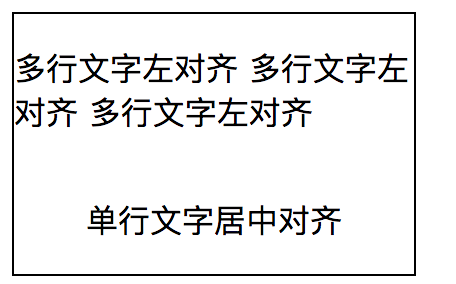
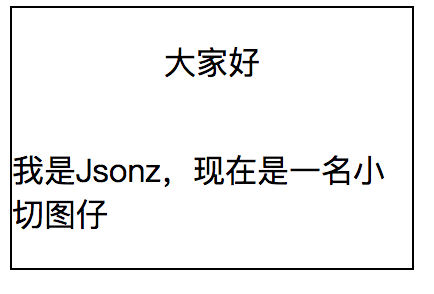
feat( Promise )

Changed region(s): [[0.0, 0.0, 0.9585, 0.9859]]

diff --git a/2018/05/css-world/index.html b/2018/05/css-world/index.html
@@ -88,13 +88,13 @@
 
 
 
-<meta name="description" content="前段时间面了荔枝，反馈说对一些css概念性的东西掌握不是很好~ 所以最近有空看了张鑫旭大佬的《CSS世界》全本通熟易懂，继承了博客的画风，入口即化 这里只是列了一些比较实用的点，主观性特别强~ 很多东西三言两语讲不清楚，大家可以入手张鑫旭大佬的书来看看，里面关于一些基础的尺寸控制，流和line-height 等等很多东西都捋一遍。 改变 width/height 作用细节的 box-sizing">
+<meta name="description" content="《css世界》 前段时间面了荔枝，反馈说对一些css概念性的东西掌握不是很好~ 所以最近有空看了张鑫旭大佬的《CSS世界》全本通熟易懂，继承了博客的画风，入口即化 这里只是列了一些比较实用的点，主观性特别强~ 很多东西三言两语讲不清楚，大家可以入手张鑫旭大佬的书来看看，里面关于一些基础的尺寸控制，流和line-height 等等很多东西都捋一遍。 改变 width/height 作用细节的 box">
 <meta name="keywords" content="github,learn,CSS,Book">
 <meta property="og:type" content="article">
 <meta property="og:title" content="css世界笔记">
 <meta property="og:url" content="https://jsonz1993.github.io/2018/05/css-world/index.html">
 <meta property="og:site_name" content="Jsonz">
-<meta property="og:description" content="前段时间面了荔枝，反馈说对一些css概念性的东西掌握不是很好~ 所以最近有空看了张鑫旭大佬的《CSS世界》全本通熟易懂，继承了博客的画风，入口即化 这里只是列了一些比较实用的点，主观性特别强~ 很多东西三言两语讲不清楚，大家可以入手张鑫旭大佬的书来看看，里面关于一些基础的尺寸控制，流和line-height 等等很多东西都捋一遍。 改变 width/height 作用细节的 box-sizing">
+<meta property="og:description" content="《css世界》 前段时间面了荔枝，反馈说对一些css概念性的东西掌握不是很好~ 所以最近有空看了张鑫旭大佬的《CSS世界》全本通熟易懂，继承了博客的画风，入口即化 这里只是列了一些比较实用的点，主观性特别强~ 很多东西三言两语讲不清楚，大家可以入手张鑫旭大佬的书来看看，里面关于一些基础的尺寸控制，流和line-height 等等很多东西都捋一遍。 改变 width/height 作用细节的 box">
 <meta property="og:image" content="https://jsonz1993.github.io/2018/05/css-world/box-sizing.png">
 <meta property="og:image" content="https://jsonz1993.github.io/2018/05/css-world/padding1.png">
 <meta property="og:image" content="https://jsonz1993.github.io/2018/05/css-world/padding2.png">
@@ -109,10 +109,10 @@
 <meta property="og:image" content="https://jsonz1993.github.io/2018/05/css-world/first-letter.png">
 <meta property="og:image" content="https://jsonz1993.github.io/2018/05/css-world/loading.gif">
 <meta property="og:image" content="https://jsonz1993.github.io/2018/05/css-world/yo.png">
-<meta property="og:updated_time" content="2018-05-19T10:20:47.577Z">
+<meta property="og:updated_time" content="2018-05-19T10:36:52.292Z">
 <meta name="twitter:card" content="summary">
 <meta name="twitter:title" content="css世界笔记">
-<meta name="twitter:description" content="前段时间面了荔枝，反馈说对一些css概念性的东西掌握不是很好~ 所以最近有空看了张鑫旭大佬的《CSS世界》全本通熟易懂，继承了博客的画风，入口即化 这里只是列了一些比较实用的点，主观性特别强~ 很多东西三言两语讲不清楚，大家可以入手张鑫旭大佬的书来看看，里面关于一些基础的尺寸控制，流和line-height 等等很多东西都捋一遍。 改变 width/height 作用细节的 box-sizing">
+<meta name="twitter:description" content="《css世界》 前段时间面了荔枝，反馈说对一些css概念性的东西掌握不是很好~ 所以最近有空看了张鑫旭大佬的《CSS世界》全本通熟易懂，继承了博客的画风，入口即化 这里只是列了一些比较实用的点，主观性特别强~ 很多东西三言两语讲不清楚，大家可以入手张鑫旭大佬的书来看看，里面关于一些基础的尺寸控制，流和line-height 等等很多东西都捋一遍。 改变 width/height 作用细节的 box">
 <meta name="twitter:image" content="https://jsonz1993.github.io/2018/05/css-world/box-sizing.png">
 
 
@@ -414,7 +414,8 @@
       
 
       
-        <p>前段时间面了荔枝，反馈说对一些css概念性的东西掌握不是很好~ 所以最近有空看了张鑫旭大佬的《CSS世界》<br>全本通熟易懂，继承了博客的画风，入口即化</p>
+        <p><a href="http://www.cssworld.cn/" target="_blank" rel="external">《css世界》</a></p>
+<p>前段时间面了荔枝，反馈说对一些css概念性的东西掌握不是很好~ 所以最近有空看了张鑫旭大佬的《CSS世界》<br>全本通熟易懂，继承了博客的画风，入口即化</p>
 <p>这里只是列了一些比较实用的点，主观性特别强~ 很多东西三言两语讲不清楚，大家可以入手张鑫旭大佬的书来看看，里面关于一些基础的尺寸控制，流和line-height 等等很多东西都捋一遍。</p>
 <h2 id="改变-width-height-作用细节的-box-sizing"><a href="#改变-width-height-作用细节的-box-sizing" class="headerlink" title="改变 width/height 作用细节的 box-sizing"></a>改变 width/height 作用细节的 box-sizing</h2><blockquote>
 <p>box-sizing的作用是什么？ 一句话，改变了 width 作用的盒子。默认情况下，width 是作用在 content box 上的，box-sizing 的作用就是可以把 width 作用的盒子变成其他几个。</p>
@@ -442,7 +443,7 @@
 <h2 id="利用-margin-auto-做垂直上下居中"><a href="#利用-margin-auto-做垂直上下居中" class="headerlink" title="利用 margin: auto 做垂直上下居中"></a>利用 margin: auto 做垂直上下居中</h2><figure class="highlight css"><table><tr><td class="gutter"><pre><div class="line">1</div><div class="line">2</div><div class="line">3</div><div class="line">4</div><div class="line">5</div><div class="line">6</div><div class="line">7</div><div class="line">8</div><div class="line">9</div><div class="line">10</div><div class="line">11</div><div class="line">12</div><div class="line">13</div><div class="line">14</div><div class="line">15</div><div class="line">16</div><div class="line">17</div></pre></td><td class="code"><pre><div class="line"><span class="selector-class">.box1</span> &#123;</div><div class="line">  <span class="attribute">height</span>: <span class="number">400px</span>;</div><div class="line">  <span class="attribute">width</span>: <span class="number">400px</span>;</div><div class="line">  <span class="attribute">border</span>: <span class="number">1px</span> solid ;</div><div class="line">  <span class="attribute">position</span>: relative;</div><div class="line">&#125;</div><div class="line"><span class="selector-class">.box2</span> &#123;</div><div class="line">  <span class="attribute">position</span>: absolute;</div><div class="line">  <span class="attribute">left</span>: <span class="number">0</span>;</div><div class="line">  <span class="attribute">right</span>: <span class="number">0</span>;</div><div class="line">  <span class="attribute">top</span>: <span class="number">0</span>;</div><div class="line">  <span class="attribute">bottom</span>: <span class="number">0</span>;</div><div class="line">  <span class="attribute">background-color</span>: currentColor;</div><div class="line">  <span class="attribute">width</span>: <span class="number">200px</span>;</div><div class="line">  <span class="attribute">height</span>: <span class="number">200px</span>;</div><div class="line">  <span class="attribute">margin</span>: auto;</div><div class="line">&#125;</div></pre></td></tr></table></figure>
 <figure class="highlight html"><table><tr><td class="gutter"><pre><div class="line">1</div></pre></td><td class="code"><pre><div class="line"><span class="tag">&lt;<span class="name">div</span> <span class="attr">class</span>=<span class="string">"box1"</span>&gt;</span><span class="tag">&lt;<span class="name">div</span> <span class="attr">class</span>=<span class="string">"box2"</span>&gt;</span><span class="tag">&lt;/<span class="name">div</span>&gt;</span><span class="tag">&lt;/<span class="name">div</span>&gt;</span></div></pre></td></tr></table></figure>
 <h2 id="border-默认颜色为元素color值"><a href="#border-默认颜色为元素color值" class="headerlink" title="border 默认颜色为元素color值"></a>border 默认颜色为元素color值</h2><h2 id="border绘制三角形"><a href="#border绘制三角形" class="headerlink" title="border绘制三角形"></a>border绘制三角形</h2><p>项目上画三角形绝大部分都是用border，好控制，实现简单，成本低只需一个元素。<br><figure class="highlight css"><table><tr><td class="gutter"><pre><div class="line">1</div><div class="line">2</div><div class="line">3</div><div class="line">4</div><div class="line">5</div><div class="line">6</div></pre></td><td class="code"><pre><div class="line"><span class="selector-class">.box1</span> &#123;</div><div class="line">  <span class="attribute">border</span>: <span class="number">10px</span>;</div><div class="line">  <span class="attribute">border-style</span>: solid;</div><div class="line">  <span class="attribute">border-color</span>: currentColor transparent transparent;</div><div class="line">  <span class="attribute">width</span>: <span class="number">0</span>;</div><div class="line">&#125;</div></pre></td></tr></table></figure></p>
-<h2 id="css尺寸单位ex，指的是字母x的高度。"><a href="#css尺寸单位ex，指的是字母x的高度。" class="headerlink" title="css尺寸单位ex，指的是字母x的高度。"></a>css尺寸单位<code>ex</code>，指的是字母x的高度。</h2><p>这里简单说一下，css里面的基线(baseline)其实就是字母x的下边缘线<br>关于ex的应用这里不写呆毛了，我们可以利用他来实现文字与图片居中，直接给张鑫旭大佬的网址<a href="http://demo.cssworld.cn/5/1-##php" target="_blank" rel="external">传送门</a><br><em>再感慨一下，虽然这些东西多多少少都在张鑫旭博客看到，但是这本书真的对一些东西的讲解很通俗易懂。大家可以入手有空翻一翻</em></p>
+<h2 id="css尺寸单位ex，指的是字母x的高度。"><a href="#css尺寸单位ex，指的是字母x的高度。" class="headerlink" title="css尺寸单位ex，指的是字母x的高度。"></a>css尺寸单位<code>ex</code>，指的是字母x的高度。</h2><p>这里简单说一下，css里面的基线(baseline)其实就是字母x的下边缘线<br>关于ex的应用这里不写呆毛了，我们可以利用他来实现文字与图片居中，直接给张鑫旭大佬的<a href="http://demo.cssworld.cn/5/1-1.php" target="_blank" rel="external">demo</a><br><em>再感慨一下，虽然这些东西多多少少都在张鑫旭博客看到，但是这本书真的对一些东西的讲解很通俗易懂。大家可以入手有空翻一翻</em></p>
 <h2 id="BFC-块级格式化上下文"><a href="#BFC-块级格式化上下文" class="headerlink" title="BFC 块级格式化上下文"></a>BFC 块级格式化上下文</h2><p>在上面我们讲过了设置overflow:hidden;可以创建BFC来清除浮动，那么还有哪些方法可以创建BFC呢？</p>
 <ul>
 <li><html>根目录</html></li>
@@ -491,7 +492,7 @@
 <p><dot>是自定义的一个标签元素，除了简约、语义化明显<br><figure class="highlight html"><table><tr><td class="gutter"><pre><div class="line">1</div><div class="line">2</div><div class="line">3</div><div class="line">4</div><div class="line">5</div><div class="line">6</div><div class="line">7</div><div class="line">8</div><div class="line">9</div><div class="line">10</div><div class="line">11</div><div class="line">12</div><div class="line">13</div><div class="line">14</div><div class="line">15</div><div class="line">16</div><div class="line">17</div><div class="line">18</div><div class="line">19</div><div class="line">20</div><div class="line">21</div></pre></td><td class="code"><pre><div class="line"><span class="tag">&lt;<span class="name">style</span>&gt;</span><span class="css"></span></div><div class="line">	<span class="selector-tag">dot</span> &#123;</div><div class="line">    <span class="attribute">display</span>: inline-block; </div><div class="line">    <span class="attribute">height</span>: <span class="number">1em</span>;</div><div class="line">    <span class="attribute">line-height</span>: <span class="number">1</span>;</div><div class="line">    <span class="attribute">text-align</span>: left;</div><div class="line">    <span class="attribute">vertical-align</span>: -.<span class="number">25em</span>;</div><div class="line">    <span class="attribute">overflow</span>: hidden;</div><div class="line">&#125;</div><div class="line"><span class="selector-tag">dot</span><span class="selector-pseudo">::before</span> &#123;</div><div class="line">    <span class="attribute">display</span>: block;</div><div class="line">    <span class="attribute">content</span>: <span class="string">'...\A..\A.'</span>;</div><div class="line">    <span class="attribute">white-space</span>: pre-wrap;</div><div class="line">    <span class="attribute">animation</span>: dot <span class="number">3s</span> infinite step-start both;</div><div class="line">&#125;</div><div class="line">@<span class="keyword">keyframes</span> dot &#123;</div><div class="line">    33% &#123; <span class="attribute">transform</span>: <span class="built_in">translateY</span>(-2em); &#125;</div><div class="line">    66% &#123; <span class="attribute">transform</span>: <span class="built_in">translateY</span>(-1em); &#125;</div><div class="line">&#125;</div><div class="line"><span class="tag">&lt;/<span class="name">style</span>&gt;</span></div><div class="line">正在加载中<span class="tag">&lt;<span class="name">dot</span>&gt;</span>...<span class="tag">&lt;/<span class="name">dot</span>&gt;</span></div></pre></td></tr></table></figure></dot></p>
 </blockquote>
 <p><img src="loading.gif" width="200"></p>
-<h2 id="单行文字居中对齐，多行文字左对齐"><a href="#单行文字居中对齐，多行文字左对齐" class="headerlink" title="单行文字居中对齐，多行文字左对齐"></a>单行文字居中对齐，多行文字左对齐</h2><figure class="highlight html"><table><tr><td class="gutter"><pre><div class="line">1</div><div class="line">2</div><div class="line">3</div><div class="line">4</div><div class="line">5</div><div class="line">6</div><div class="line">7</div><div class="line">8</div><div class="line">9</div><div class="line">10</div><div class="line">11</div><div class="line">12</div><div class="line">13</div><div class="line">14</div><div class="line">15</div></pre></td><td class="code"><pre><div class="line"><span class="tag">&lt;<span class="name">style</span>&gt;</span><span class="css"></span></div><div class="line"><span class="selector-class">.box1</span> &#123;</div><div class="line">  <span class="attribute">text-align</span>: center;</div><div class="line">  <span class="attribute">width</span>: <span class="number">200px</span>;</div><div class="line">  <span class="attribute">border</span>: <span class="number">1px</span> solid ;</div><div class="line">&#125;</div><div class="line"><span class="selector-tag">p</span> &#123;</div><div class="line">  <span class="attribute">display</span>: inline-block;</div><div class="line">  <span class="attribute">text-align</span>: left;</div><div class="line">&#125;</div><div class="line"><span class="tag">&lt;/<span class="name">style</span>&gt;</span></div><div class="line"><span class="tag">&lt;<span class="name">div</span> <span class="attr">class</span>=<span class="string">"box1"</span>&gt;</span></div><div class="line">  <span class="tag">&lt;<span class="name">p</span>&gt;</span>多行文字左对齐 多行文字左对齐 多行文字左对齐 <span class="tag">&lt;/<span class="name">p</span>&gt;</span></div><div class="line">  <span class="tag">&lt;<span class="name">p</span>&gt;</span>单行文字居中对齐<span class="tag">&lt;/<span class="name">p</span>&gt;</span></div><div class="line"><span class="tag">&lt;/<span class="name">div</span>&gt;</span></div></pre></td></tr></table></figure>
+<h2 id="单行文字居中对齐，多行文字左对齐"><a href="#单行文字居中对齐，多行文字左对齐" class="headerlink" title="单行文字居中对齐，多行文字左对齐"></a>单行文字居中对齐，多行文字左对齐</h2><figure class="highlight html"><table><tr><td class="gutter"><pre><div class="line">1</div><div class="line">2</div><div class="line">3</div><div class="line">4</div><div class="line">5</div><div class="line">6</div><div class="line">7</div><div class="line">8</div><div class="line">9</div><div class="line">10</div><div class="line">11</div><div class="line">12</div><div class="line">13</div><div class="line">14</div><div class="line">15</div></pre></td><td class="code"><pre><div class="line"><span class="tag">&lt;<span class="name">style</span>&gt;</span><span class="css"></span></div><div class="line"><span class="selector-class">.box1</span> &#123;</div><div class="line">  <span class="attribute">text-align</span>: center;</div><div class="line">  <span class="attribute">width</span>: <span class="number">200px</span>;</div><div class="line">  <span class="attribute">border</span>: <span class="number">1px</span> solid ;</div><div class="line">&#125;</div><div class="line"><span class="selector-tag">p</span> &#123;</div><div class="line">  <span class="attribute">display</span>: inline-block;</div><div class="line">  <span class="attribute">text-align</span>: left;</div><div class="line">&#125;</div><div class="line"><span class="tag">&lt;/<span class="name">style</span>&gt;</span></div><div class="line"><span class="tag">&lt;<span class="name">div</span> <span class="attr">class</span>=<span class="string">"box1"</span>&gt;</span></div><div class="line">  <span class="tag">&lt;<span class="name">p</span>&gt;</span>大家好<span class="tag">&lt;/<span class="name">p</span>&gt;</span></div><div class="line">  <span class="tag">&lt;<span class="name">p</span>&gt;</span>我是Jsonz，现在是一名小切图仔<span class="tag">&lt;/<span class="name">p</span>&gt;</span></div><div class="line"><span class="tag">&lt;/<span class="name">div</span>&gt;</span></div></pre></td></tr></table></figure>
 <p><img src="./yo.png" alt=""></p>
 <h2 id="字体使用系统字体"><a href="#字体使用系统字体" class="headerlink" title="字体使用系统字体"></a>字体使用系统字体</h2><p>这里个人有点疑惑~ 如果单纯是想使用系统默认字体，直接不设置 font 不就好了~ 多此一举设置个 <code>menu</code>…<br><figure class="highlight css"><table><tr><td class="gutter"><pre><div class="line">1</div><div class="line">2</div></pre></td><td class="code"><pre><div class="line"><span class="selector-tag">html</span> &#123; <span class="attribute">font</span>: menu; &#125;</div><div class="line"><span class="selector-tag">body</span> &#123; <span class="attribute">font-size</span>: <span class="number">16px</span>; &#125;</div></pre></td></tr></table></figure></p>
 <p>书里更多的不是给我们展示这些小技巧，而是帮我们讲清楚很多概念与他的特性，这篇文比较没经验，效果图都是用的截图…下次有机会的话注意直接展示个demo可能看起来会更直观</p>

diff --git a/2017/06/捣鼓目录/index.html b/2017/06/捣鼓目录/index.html
@@ -72,7 +72,7 @@
 <link href="/css/main.css?v=5.1.0" rel="stylesheet" type="text/css" />
 
 
-  <meta name="keywords" content="github,learn,imooc,JavaScript,web,work,React-Native,CSS,React," />
+  <meta name="keywords" content="github,learn,imooc,JavaScript,work,React-Native,CSS,web,React," />
 
 
 
@@ -89,7 +89,7 @@
 
 
 <meta name="description" content="记录平时工作学习的目录条目， 类似 Jsonz-learn、 Jsonz-wheel 的目录。部分比较大的轮子可能会独立成一个git项目 Doing《CSS世界》 《http权威指南》 组件开发，最近迫切希望自己能有耐心去开发一系列组件，用了太多的ui没有自己动手 都快生疏了。 目录 排名按时间顺序create-react-app 源码解析(一)create-react-app 源码解析(二)gi">
-<meta name="keywords" content="github,learn,imooc,JavaScript,web,work,React-Native,CSS,React">
+<meta name="keywords" content="github,learn,imooc,JavaScript,work,React-Native,CSS,web,React">
 <meta property="og:type" content="article">
 <meta property="og:title" content="[置顶]捣鼓目录">
 <meta property="og:url" content="https://jsonz1993.github.io/2017/06/捣鼓目录/index.html">
@@ -564,13 +564,13 @@
           
             <a href="/tags/JavaScript/" rel="tag"># JavaScript</a>
           
-            <a href="/tags/web/" rel="tag"># web</a>
-          
             <a href="/tags/work/" rel="tag"># work</a>
           
             <a href="/tags/React-Native/" rel="tag"># React-Native</a>
           
             <a href="/tags/CSS/" rel="tag"># CSS</a>
+          
+            <a href="/tags/web/" rel="tag"># web</a>
           
             <a href="/tags/React/" rel="tag"># React</a>
           

diff --git a/2017/05/CORS-跨域资源共享/index.html b/2017/05/CORS-跨域资源共享/index.html
@@ -72,7 +72,7 @@
 <link href="/css/main.css?v=5.1.0" rel="stylesheet" type="text/css" />
 
 
-  <meta name="keywords" content="learn,web,work," />
+  <meta name="keywords" content="learn,work,web," />
 
 
 
@@ -89,7 +89,7 @@
 
 
 <meta name="description" content="CORS是一个W3C标准，全称是”跨域资源共享”（Cross-origin resource sharing）  出于安全考虑，浏览器会限制某些跨域请求。  而 cors 允许浏览器想跨源服务器发起 XMLHttpRequest 和 Fetch 接口请求。 同源策略同源策略限制从一个源加载的文档或脚本如何与来自另一个源的资源进行交互。这是一个用于隔离潜在恶意文件的关键的安全机制。 那么浏览器是根据">
-<meta name="keywords" content="learn,web,work">
+<meta name="keywords" content="learn,work,web">
 <meta property="og:type" content="article">
 <meta property="og:title" content="CORS 跨域资源共享">
 <meta property="og:url" content="https://jsonz1993.github.io/2017/05/CORS-跨域资源共享/index.html">
@@ -501,9 +501,9 @@
           
             <a href="/tags/learn/" rel="tag"># learn</a>
           
-            <a href="/tags/web/" rel="tag"># web</a>
-          
             <a href="/tags/work/" rel="tag"># work</a>
+          
+            <a href="/tags/web/" rel="tag"># web</a>
           
         </div>
       

diff --git a/2017/06/移动端浏览器默认请求-apple-touch-icon-png-问题/index.html b/2017/06/移动端浏览器默认请求-apple-touch-icon-png-问题/index.html
@@ -72,7 +72,7 @@
 <link href="/css/main.css?v=5.1.0" rel="stylesheet" type="text/css" />
 
 
-  <meta name="keywords" content="web,work," />
+  <meta name="keywords" content="work,web," />
 
 
 
@@ -89,7 +89,7 @@
 
 
 <meta name="description" content="概述项目有做埋点与请求的记录， 早上发现有用户老是会请求一个location.origin + &amp;quot;/apple-touch-icon.png&amp;quot; 或 location.origin + &amp;quot;/apple-touch-icon-76x76.png&amp;quot;的问题。 这就很纳闷了， 首先，按照我们的代码风格是不会出现 根目录指向的图片 而且后台也不会输出这么系统化的图片名。">
-<meta name="keywords" content="web,work">
+<meta name="keywords" content="work,web">
 <meta property="og:type" content="article">
 <meta property="og:title" content="移动端浏览器默认请求 apple-touch-icon.png 问题">
 <meta property="og:url" content="https://jsonz1993.github.io/2017/06/移动端浏览器默认请求-apple-touch-icon-png-问题/index.html">
@@ -430,9 +430,9 @@
   
         <div class="post-tags">
           
-            <a href="/tags/web/" rel="tag"># web</a>
-          
             <a href="/tags/work/" rel="tag"># work</a>
+          
+            <a href="/tags/web/" rel="tag"># web</a>
           
         </div>
       

diff --git a/index.html b/index.html
@@ -570,8 +570,9 @@ Doing《CSS世界》
       
         
           
-          前段时间面了荔枝，反馈说对一些css概念性的东西掌握不是很好~ 所以最近有空看了张鑫旭大佬的《CSS世界》全本通熟易懂，继承了博客的画风，入口即化
-这里只是列了一些比较实用的点，主观性特别强~ 很多东西三言两语讲不清楚，大家可以入手张鑫旭大佬的书来看看，里面关于一些基础的尺寸控制，流和line-he
+          《css世界》
+前段时间面了荔枝，反馈说对一些css概念性的东西掌握不是很好~ 所以最近有空看了张鑫旭大佬的《CSS世界》全本通熟易懂，继承了博客的画风，入口即化
+这里只是列了一些比较实用的点，主观性特别强~ 很多东西三言两语讲不清楚，大家可以入手张鑫旭大佬的书来看看，里面关于一些基础的尺寸控制，流
           ...
           <!--noindex-->
           <div class="post-button text-center">

diff --git a/css/main.css b/css/main.css
@@ -1795,7 +1795,7 @@ img:hover {
   width: 4px;
   height: 4px;
   border-radius: 50%;
-  background: #8b676b;
+  background: #ff7f69;
 }
 .links-of-blogroll {
   font-size: 13px;
